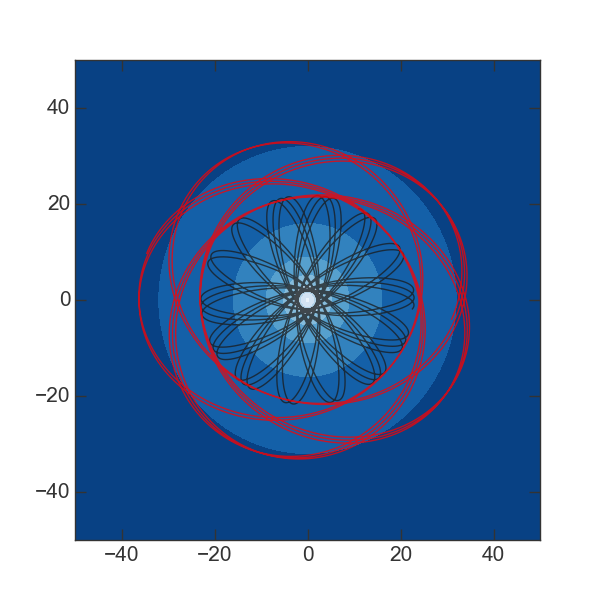
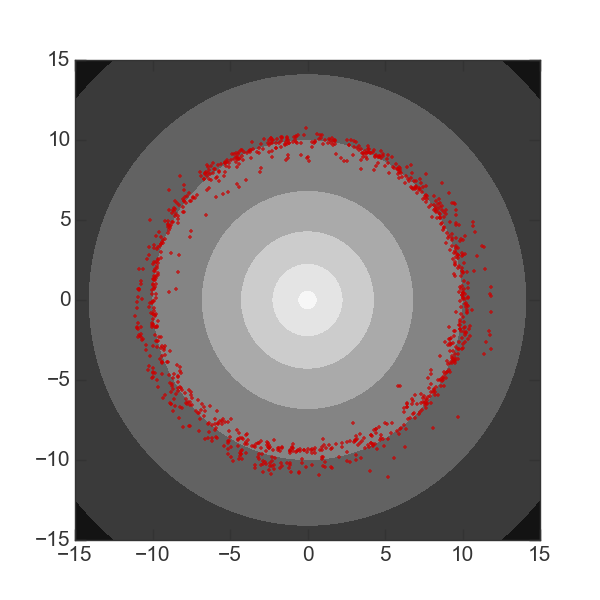
working through example

diff --git a/docs/_code/examples.py b/docs/_code/examples.py
@@ -6,20 +6,25 @@ import streamteam.potential as sp
 import streamteam.integrate as si
 from streamteam.units import galactic
 
-
 # integrate & potential example
-potential = sp.SphericalNFWPotential(v_h=(500*u.km/u.s).decompose(galactic).value,
-                                     r_h=3., units=galactic)
+v_c = (200*u.km/u.s).decompose(galactic).value
+potential = sp.SphericalNFWPotential(v_c=v_c, r_s=10., units=galactic)
 
-x0 = np.array([[11.,6.,19.],[31.,0.,-4.]])
-v0 = ([[50.,0.,0.],[70.,-70.,155.]]*u.km/u.s).decompose(galactic).value
-w0 = np.hstack((x0,v0))
-t,ws = potential.integrate_orbit(w0.copy(), dt=1., nsteps=10000)
+# single orbit
+initial_conditions = np.array([10., 0, 0, 0, v_c, 0])
+t,orbit = potential.integrate_orbit(initial_conditions, dt=0.5, nsteps=10000)
 
-x = np.linspace(-50,50,200)
-z = np.linspace(-50,50,200)
-fig,ax = potential.plot_contours(grid=(x,0.,z), cmap=cm.Blues)
-ax.plot(ws[:,0,0], ws[:,0,2], marker=None, lw=1., alpha=0.75)
-ax.plot(ws[:,1,0], ws[:,1,2], marker=None, lw=1., alpha=0.75, color='r')
+# multiple orbits
+norbits = 1000
+stddev = [0.1,0.1,0.1,0.01,0.01,0.01]  # 100 pc spatial scale, ~10 km/s velocity scale
+initial_conditions = np.random.normal(initial_conditions, stddev, size=(norbits,6))
+t,orbits = potential.integrate_orbit(initial_conditions, dt=0.5, nsteps=10000)
+
+fig,ax = plt.subplots(1,1,figsize=(6,6))
+ax.plot(orbits[-1,:,0], orbits[-1,:,1], marker='.', linestyle='none',
+        alpha=0.75, color='#cc0000')
+
+x = y = np.linspace(-15,15,100)
+potential.plot_contours(grid=(x,y,0), ax=ax, cmap=cm.Greys)
 fig.set_size_inches(6,6)
 fig.savefig("../_static/examples/nfw.png")

diff --git a/docs/examples/integrate_potential_example.rst b/docs/examples/integrate_potential_example.rst
@@ -6,6 +6,8 @@ Integrating and plotting an orbit in an NFW potential
 We first need to import some relevant packages::
 
    import numpy as np
+   from streamteam.coordinates import spherical_to_cartesian
+   import streamteam.integrate as si
    import streamteam.potential as sp
    from streamteam.units import galactic
 
@@ -14,10 +16,44 @@ short-hand for what I refer to as a Galactic unit system: :math:`{\rm kpc}`,
 :math:`{\rm Myr}`, :math:`{\rm M}_\odot`. It is simply a tuple of
 :class:`astropy.units.Unit` objects that define this unit system.
 
-We now create a potential object to work with::
+We will now create a potential object to work with. For this example, we'll
+use a spherical NFW potential, parametrized by a scale radius and the
+circular velocity at the scale radius::
 
-   v_h = (250*u.km/u.s).decompose(galactic).value
-   potential = sp.SphericalNFWPotential(v_h=v_h, r_h=10., units=units)
+   v_c = (200*u.km/u.s).decompose(galactic).value
+   potential = sp.SphericalNFWPotential(v_c=v_c, r_s=10., units=units)
+
+The easiest way to integrate an orbit in this potential is to use the
+:meth:`~streamteam.potential.Potential.integrate_orbit` method, which accepts
+a single set of (or array of) initial conditions and a specification for the
+time-stepping and performs the integration for you::
+
+   initial_conditions = np.array([10., 0, 0, 0, v_c, 0])
+   t,orbit = potential.integrate_orbit(initial_conditions, dt=0.5, nsteps=10000)
+
+This method returns an array of times, ``t``, and the orbit, ``orbit``.
+By default, this method uses Leapfrog integration to compute the orbit
+(:class:`~streamteam.integrate.LeapfrogIntegrator`), but you can optionally specify
+a different integrator class as a keyword argument::
+
+   t,orbit = potential.integrate_orbit(initial_conditions, dt=0.5, nsteps=10000,
+                                       Integrator=si.DOPRI853Integrator)
+
+We can integrate many orbits in parallel by passing in a 2D array of initial
+conditions. Here, as an example, we'll generate some random initial
+conditions by sampling from a Gaussian around our initial orbit::
+
+   norbits = 1000
+   stddev = [0.1,0.1,0.1,0.01,0.01,0.01] # 100 pc spatial scale, ~10 km/s velocity scale
+   initial_conditions = np.random.normal(initial_conditions, stddev, size=(norbits,6))
+   t,orbits = potential.integrate_orbit(initial_conditions, dt=0.5, nsteps=10000)
+
+We'll now plot the final positions of these orbits over isopotential contours.
+We start by using the :meth:`~streamteam.potential.Potential.plot_contours`
+method of the ``potential`` object to plot the potential contours. This function
+returns a :class:`~matplotlib.figure.Figure` object
+
+
 
 Now we need to define an integrator object to compute an orbit. We'll use the
 Leapfrog integration scheme implemented in the `integrate` subpackage. The

diff --git a/docs/io/index.rst b/docs/io/index.rst
@@ -1,0 +1,23 @@
+.. _io:
+
+*********************************
+Reading/writing (`streamteam.io`)
+*********************************
+
+Introduction
+============
+
+Getting Started
+===============
+
+Example:
+========================
+
+Reference/API
+=============
+.. autoclass:: streamteam.integrate.DOPRI853Integrator
+   :members: run
+.. autoclass:: streamteam.integrate.LeapfrogIntegrator
+   :members: run
+.. autoclass:: streamteam.integrate.RK5Integrator
+   :members: run
